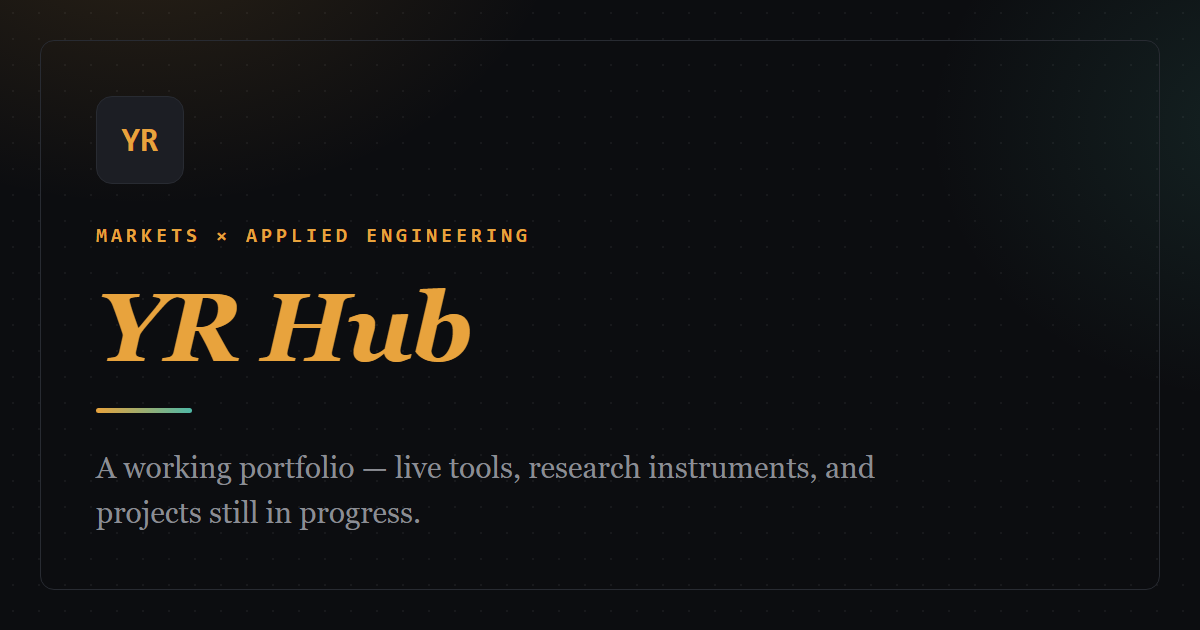
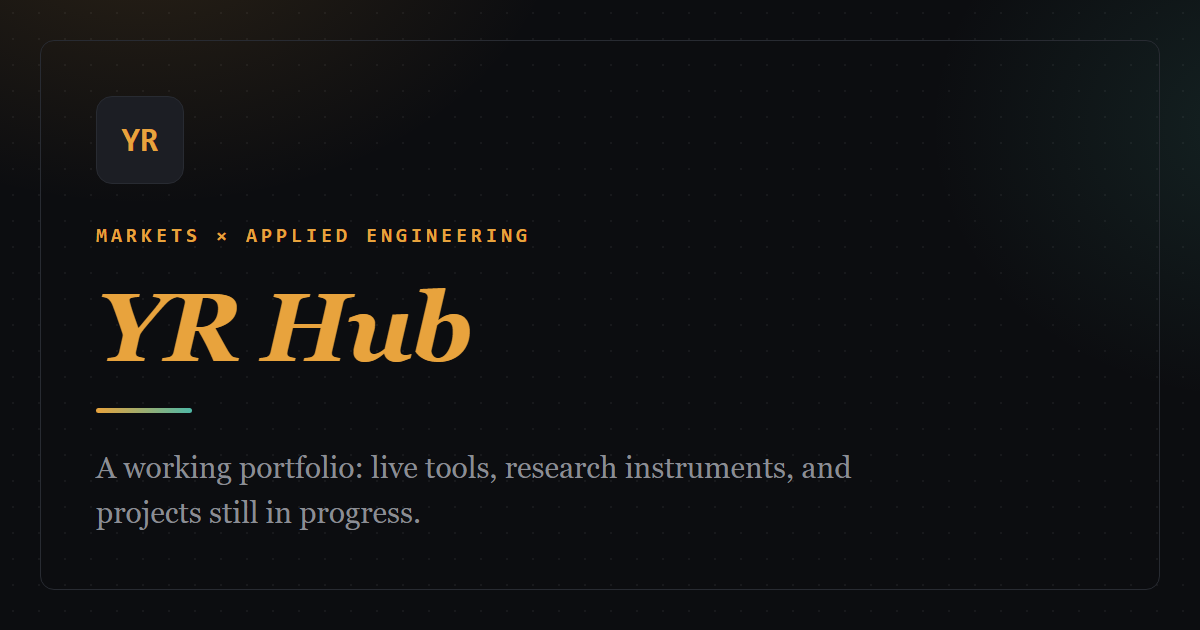
Redo the social card without an em dash
Rewrote the OG card tagline to use a colon instead of an em dash and
re-rendered og-image.png.

Claude-Session: https://claude.ai/code/session_01C71WbuLhUzCN5ecwogMh6Q

Changed region(s): [[0.3083, 0.7238, 0.74, 0.7841]]

diff --git a/og-card-source.html b/og-card-source.html
@@ -36,6 +36,6 @@ p{font-size:30px;color:var(--muted);max-width:820px;line-height:1.5;font-family:
   <div class="eyebrow">Markets &times; Applied Engineering</div>
   <h1>YR Hub</h1>
   <div class="rule"></div>
-  <p>A working portfolio — live tools, research instruments, and projects still in progress.</p>
+  <p>A working portfolio: live tools, research instruments, and projects still in progress.</p>
 </div>
 </body></html>
